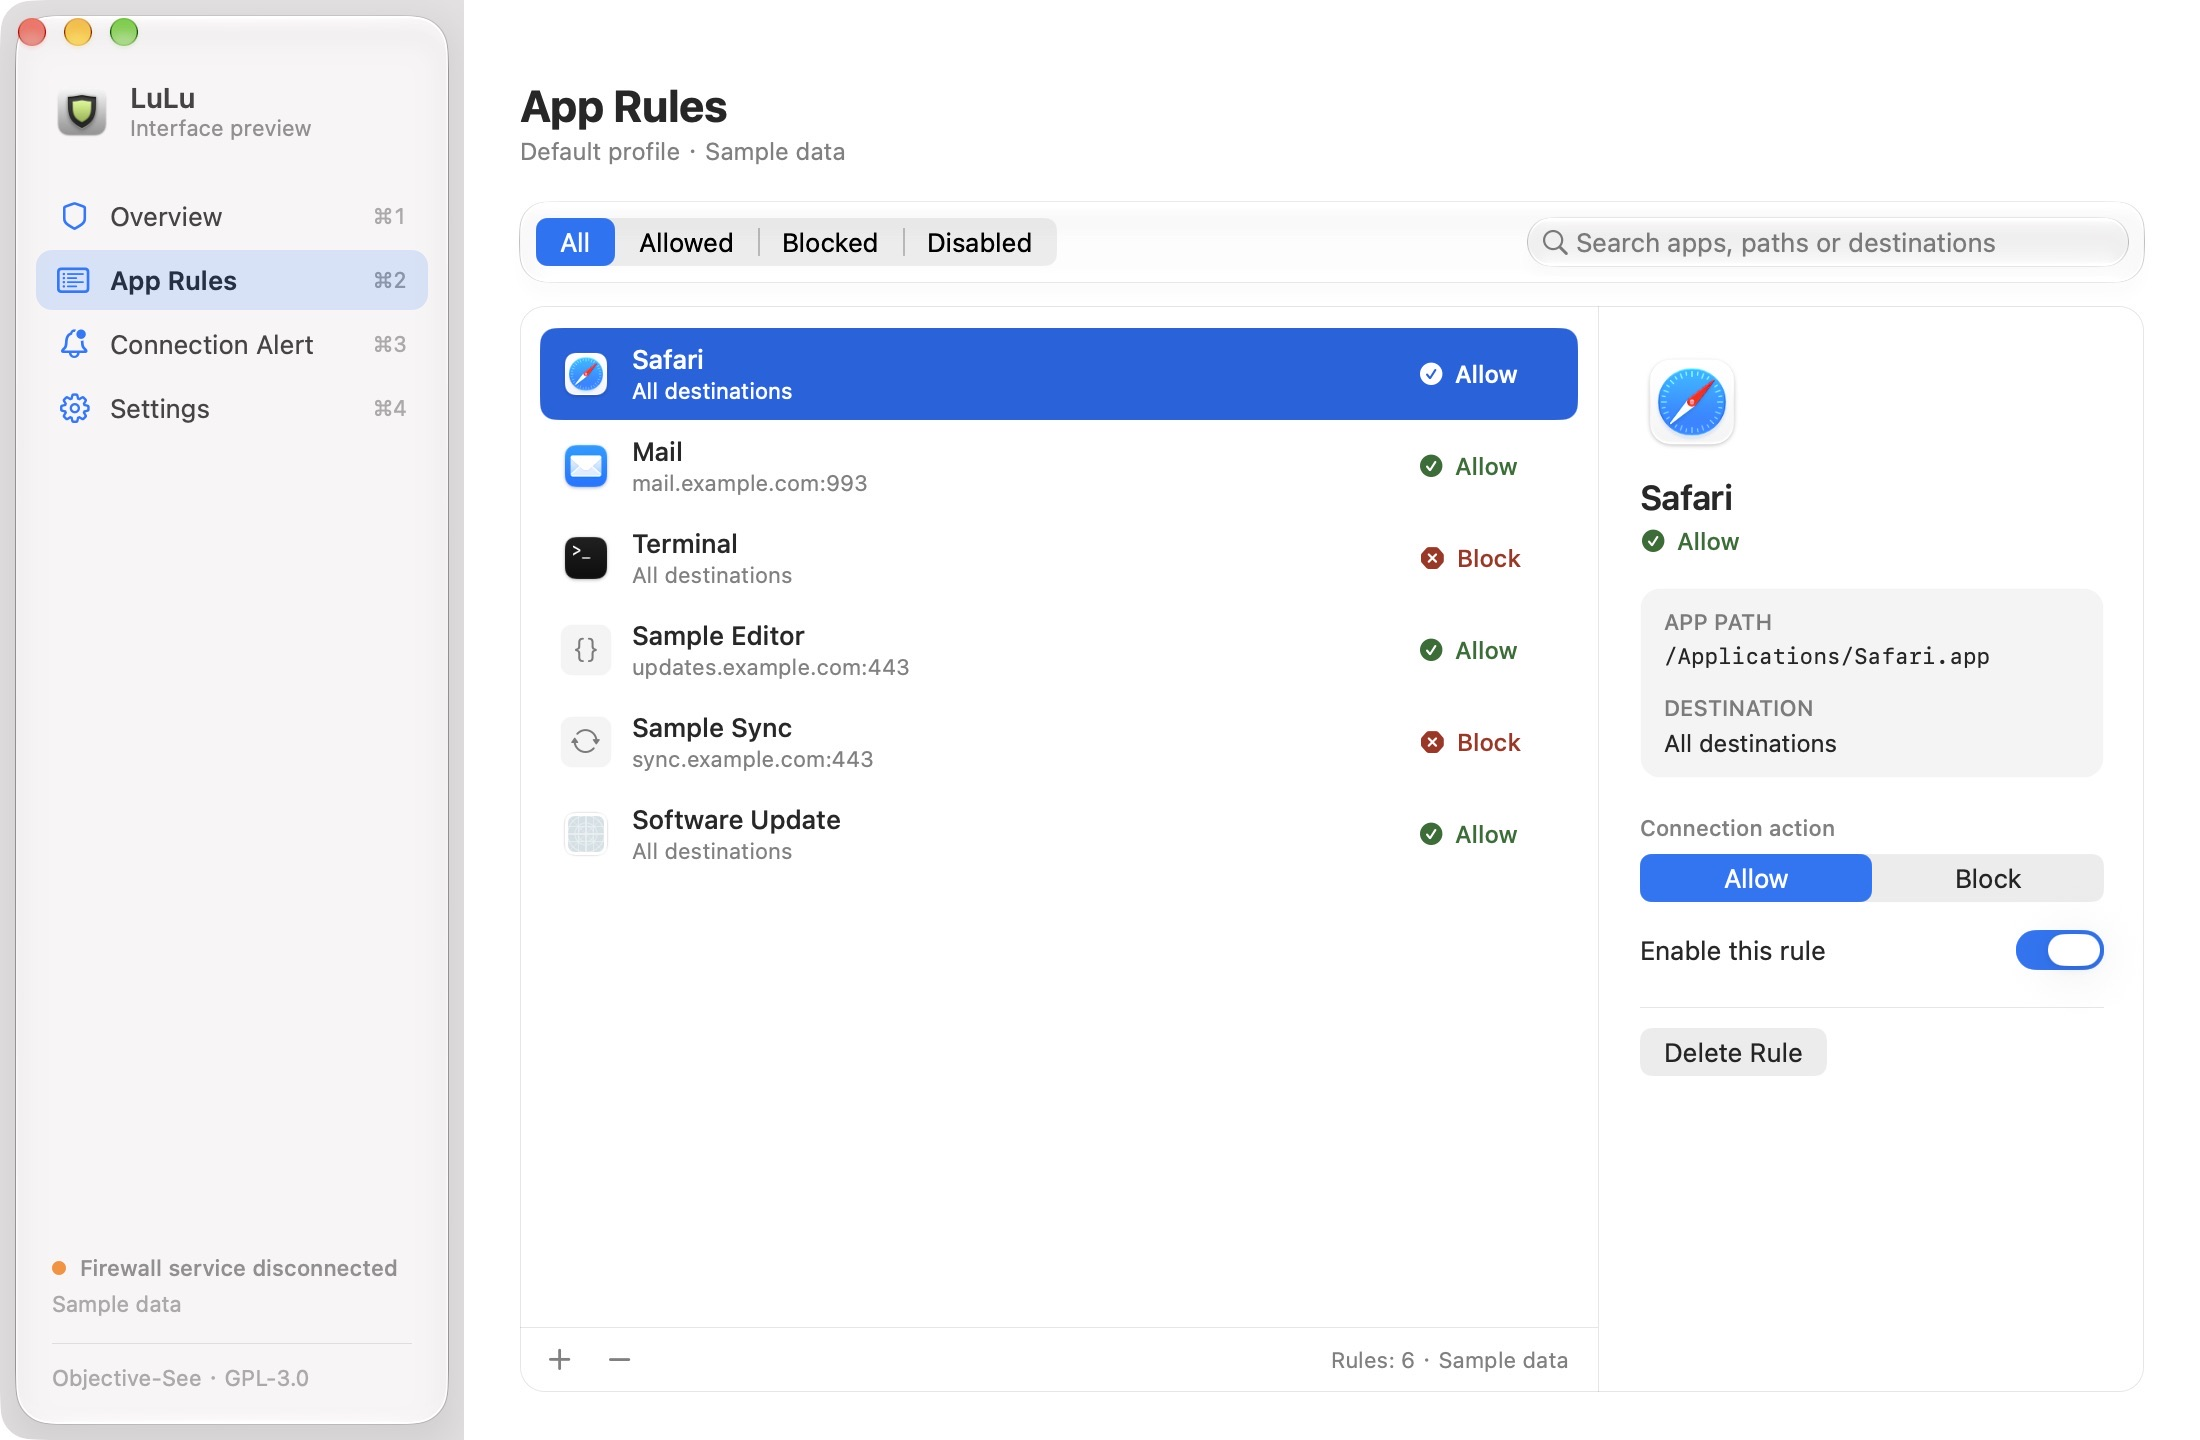
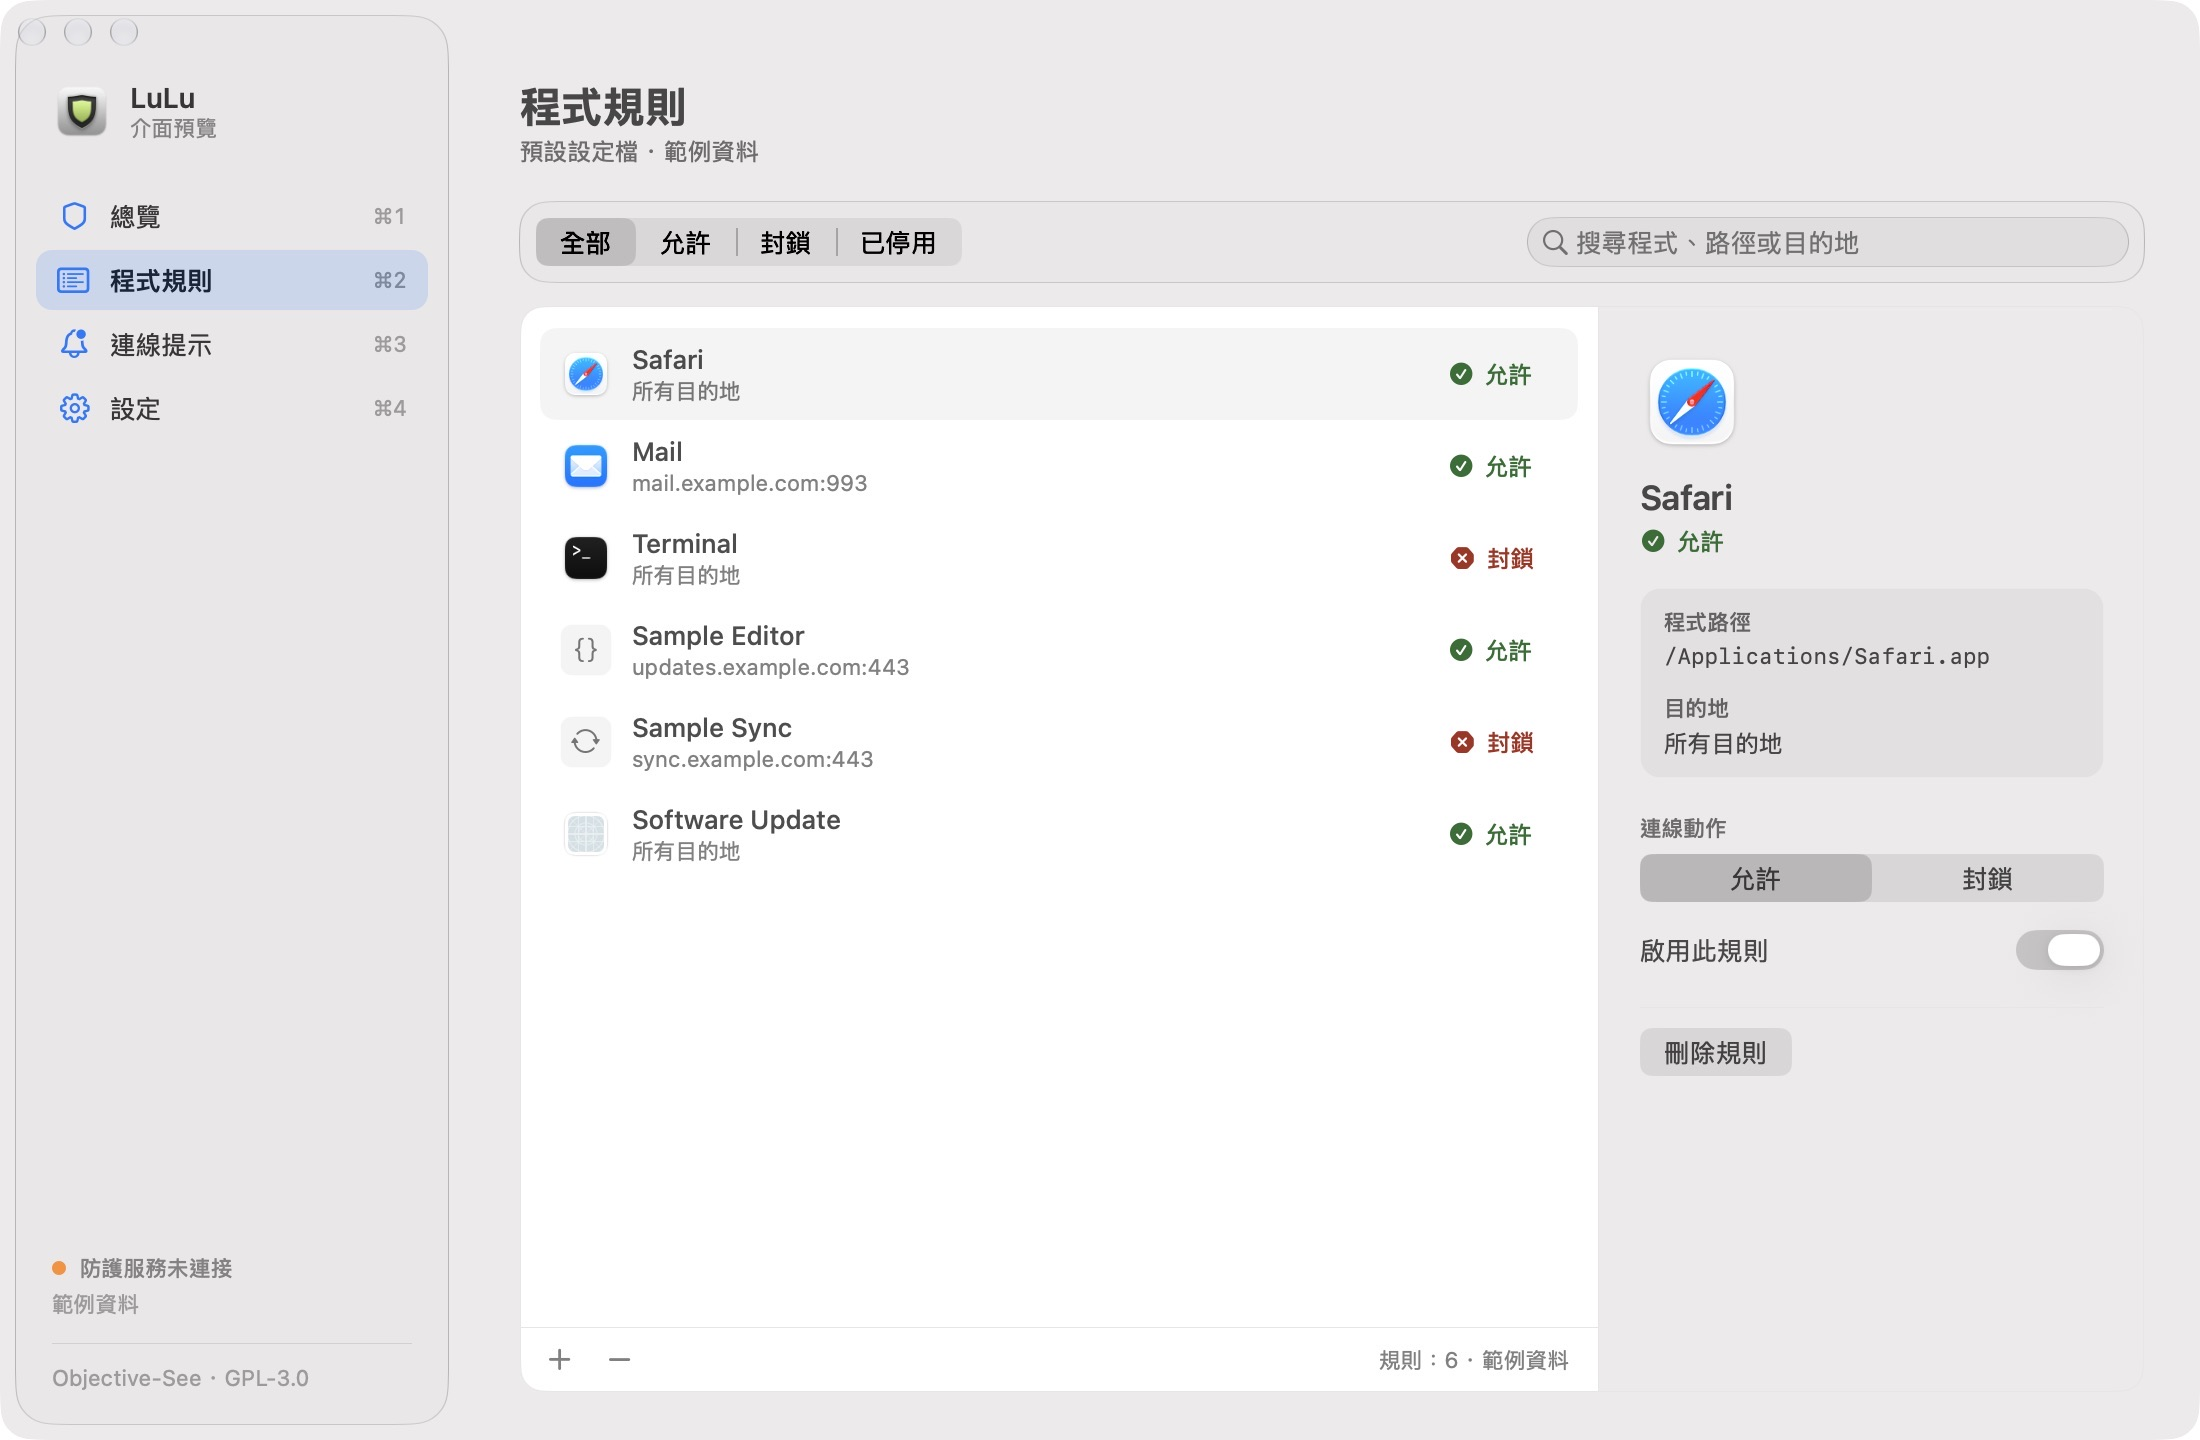
加入分組區塊與詳細資料的毛玻璃材質
需求描述：讓總覽、連線提示與設定頁的分組區塊呈現半透明毛玻璃。

實作思路：採用 AppKit 系統材質與圓角裁切，保留規則清單不透明；分開側欄與內容的背景取樣區域，讓文字參與材質顯示，並補上 QuartzCore 連結。

驗證：macOS 27.2 深淺色三頁與連線表單檢查通過；LTR／RTL 在 980×640、1100×720 無材質重疊，18 項模型及 4325 項多語檢查通過。

diff --git a/Preview/PreviewController.m b/Preview/PreviewController.m
@@ -274,13 +274,14 @@ static NSStackView* ActionTag(PreviewRule* rule, CGFloat size)
 
 #pragma mark - Views
 
+// Opaque reading surface behind the rule list.
 @interface PreviewCanvas : NSView
 @end
 @implementation PreviewCanvas
 -(void)drawRect:(NSRect)dirtyRect
 {
     [self.effectiveAppearance performAsCurrentDrawingAppearance:^{
-        [PreviewCanvasColor() setFill];
+        [PreviewSurfaceColor() setFill];
         NSRectFill(NSIntersectionRect(dirtyRect, self.bounds));
     }];
 }
@@ -414,7 +415,8 @@ static NSStackView* ActionTag(PreviewRule* rule, CGFloat size)
     backdrop.material = NSVisualEffectMaterialSidebar;
     backdrop.blendingMode = NSVisualEffectBlendingModeBehindWindow;
     backdrop.state = NSVisualEffectStateFollowsWindowActiveState;
-    Fill(backdrop, root, 0);
+    backdrop.translatesAutoresizingMaskIntoConstraints = NO;
+    [root addSubview:backdrop];
 
     NSTextField* productName = Line(@"LuLu", 14, NSFontWeightSemibold);
     NSTextField* productNote = Line(PreviewText(@"Interface preview"), 11, NSFontWeightRegular);
@@ -468,9 +470,11 @@ static NSStackView* ActionTag(PreviewRule* rule, CGFloat size)
 
     NSView* sidebar = PreviewGlass(sidebarContent, 0, 18);
     [root addSubview:sidebar];
-    self.pageView = [[PreviewCanvas alloc] init];
-    self.pageView.translatesAutoresizingMaskIntoConstraints = NO;
-    [root addSubview:self.pageView];
+    // Separate behind-window regions keep the sidebar material from overriding the content material.
+    NSVisualEffectView* contentMaterial = PreviewMaterial(NSVisualEffectMaterialUnderWindowBackground, NSVisualEffectBlendingModeBehindWindow);
+    [root addSubview:contentMaterial];
+    self.pageView = [[NSView alloc] init];
+    Fill(self.pageView, contentMaterial, 0);
 
     // Icon, gaps, row and sidebar insets, and the shortcut column.
     CGFloat shortcutWidth = TextWidth(@"⌘4", [NSFont monospacedDigitSystemFontOfSize:11 weight:NSFontWeightRegular]);
@@ -480,10 +484,14 @@ static NSStackView* ActionTag(PreviewRule* rule, CGFloat size)
         [sidebar.topAnchor constraintEqualToAnchor:root.topAnchor constant:PreviewSidebarInset],
         [sidebar.bottomAnchor constraintEqualToAnchor:root.bottomAnchor constant:-PreviewSidebarInset],
         [sidebar.widthAnchor constraintEqualToConstant:sidebarWidth],
-        [Leading(self.pageView) constraintEqualToAnchor:Trailing(sidebar) constant:Edge(PreviewSidebarInset)],
-        [Trailing(self.pageView) constraintEqualToAnchor:Trailing(root)],
-        [self.pageView.topAnchor constraintEqualToAnchor:root.topAnchor],
-        [self.pageView.bottomAnchor constraintEqualToAnchor:root.bottomAnchor]
+        [Leading(contentMaterial) constraintEqualToAnchor:Trailing(sidebar) constant:Edge(PreviewSidebarInset)],
+        [Trailing(contentMaterial) constraintEqualToAnchor:Trailing(root)],
+        [contentMaterial.topAnchor constraintEqualToAnchor:root.topAnchor],
+        [contentMaterial.bottomAnchor constraintEqualToAnchor:root.bottomAnchor],
+        [Leading(backdrop) constraintEqualToAnchor:Leading(root)],
+        [Trailing(backdrop) constraintEqualToAnchor:Leading(self.pageView)],
+        [backdrop.topAnchor constraintEqualToAnchor:root.topAnchor],
+        [backdrop.bottomAnchor constraintEqualToAnchor:root.bottomAnchor]
     ]];
 }
 
@@ -562,7 +570,7 @@ static NSStackView* ActionTag(PreviewRule* rule, CGFloat size)
     NSStackView* serviceText = Stack(@[Label(PreviewText(@"Firewall service disconnected"), 15, NSFontWeightSemibold),
         Secondary(PreviewText(@"This preview does not monitor or block network connections."))], NSUserInterfaceLayoutOrientationVertical, 3);
     NSStackView* service = Stack(@[LuLuIcon(44), serviceText], NSUserInterfaceLayoutOrientationHorizontal, 14);
-    AddWide(page, PreviewSurface(service, 18));
+    AddWide(page, PreviewFrostedSurface(service, 18));
 
     NSUInteger allowed = [[self.model rulesMatching:@"" filter:1] count];
     NSUInteger blocked = [[self.model rulesMatching:@"" filter:2] count];
@@ -600,7 +608,7 @@ static NSStackView* ActionTag(PreviewRule* rule, CGFloat size)
         row.edgeInsets = NSEdgeInsetsMake(8, 0, 8, 0);
         AddWide(list, row);
     }
-    AddWide(page, PreviewSurface(list, 0));
+    AddWide(page, PreviewFrostedSurface(list, 0));
 
     NSStackView* footer = Stack(@[Caption(PreviewText(@"Changes last for this preview session.")), Spacer(),
         Button(PreviewText(@"View Connection Alert"), self, @selector(openConnections:))], NSUserInterfaceLayoutOrientationHorizontal, 12);
@@ -693,14 +701,13 @@ static NSStackView* ActionTag(PreviewRule* rule, CGFloat size)
     NSStackView* bar = Stack(@[add, self.removeButton, Spacer(), self.countLabel], NSUserInterfaceLayoutOrientationHorizontal, 2);
     [bar setCustomSpacing:12 afterView:self.removeButton];
 
-    NSView* listPane = [[NSView alloc] init];
+    NSView* listPane = [[PreviewCanvas alloc] init];
     listPane.translatesAutoresizingMaskIntoConstraints = NO;
     NSView* barDivider = PreviewDivider();
     for(NSView* view in @[listScroll, empty, barDivider, bar]) [listPane addSubview:view];
 
     // Inspector
-    NSView* inspectorPane = [[NSView alloc] init];
-    inspectorPane.translatesAutoresizingMaskIntoConstraints = NO;
+    NSView* inspectorPane = PreviewMaterial(NSVisualEffectMaterialSidebar, NSVisualEffectBlendingModeWithinWindow);
     self.inspector = Stack(@[], NSUserInterfaceLayoutOrientationVertical, 10);
     [inspectorPane addSubview:self.inspector];
 
@@ -708,7 +715,7 @@ static NSStackView* ActionTag(PreviewRule* rule, CGFloat size)
     NSView* body = [[NSView alloc] init];
     body.translatesAutoresizingMaskIntoConstraints = NO;
     for(NSView* view in @[listPane, columnDivider, inspectorPane]) [body addSubview:view];
-    NSView* surface = PreviewSurfaceWithRadius(body, 0, 12);
+    NSView* surface = PreviewPanel(body, 12);
 
     for(NSView* view in @[header, controlBar, surface]) [page addSubview:view];
 
@@ -954,6 +961,7 @@ static NSStackView* ActionTag(PreviewRule* rule, CGFloat size)
 {
     self.sheet = [[NSPanel alloc] initWithContentRect:NSMakeRect(0, 0, width, 420) styleMask:NSWindowStyleMaskTitled backing:NSBackingStoreBuffered defer:NO];
     self.sheet.title = @"LuLu Interface Preview";
+    Fill(PreviewMaterial(NSVisualEffectMaterialSheet, NSVisualEffectBlendingModeBehindWindow), self.sheet.contentView, 0);
     NSTextField* mode = Caption(PreviewText(@"Preview mode · Sample data"));
     NSStackView* text = Stack(@[mode, Label(title, 15, NSFontWeightBold)], NSUserInterfaceLayoutOrientationVertical, 2);
     if(message) { NSTextField* body = Secondary(message); [text addArrangedSubview:body]; [text setCustomSpacing:4 afterView:text.arrangedSubviews[1]]; }
@@ -1107,7 +1115,7 @@ static NSStackView* ActionTag(PreviewRule* rule, CGFloat size)
     NSStackView* card = Stack(@[], NSUserInterfaceLayoutOrientationVertical, 16);
     AddWide(card, top);
     AddWide(card, PreviewWell(destination, 0));
-    AddWide(page, PreviewSurface(card, 18));
+    AddWide(page, PreviewFrostedSurface(card, 18));
 
     BOOL decided = self.lastDecision != nil;
     BOOL allowed = [self.lastDecision[@"allowed"] boolValue];
@@ -1250,7 +1258,7 @@ static NSStackView* ActionTag(PreviewRule* rule, CGFloat size)
         if(list.arrangedSubviews.count) AddWide(list, PreviewDivider());
         AddWide(list, row);
     }
-    NSView* surface = PreviewSurface(list, 0);
+    NSView* surface = PreviewFrostedSurface(list, 0);
     if(!title) return surface;
     NSStackView* group = Stack(@[], NSUserInterfaceLayoutOrientationVertical, 8);
     NSStackView* heading = Stack(@[SectionTitle(title)], NSUserInterfaceLayoutOrientationHorizontal, 0);

diff --git a/Preview/PreviewStyle.m b/Preview/PreviewStyle.m
@@ -1,5 +1,6 @@
 // SPDX-License-Identifier: GPL-3.0-only
 #import "PreviewStyle.h"
+#import <QuartzCore/QuartzCore.h>
 
 static void PreviewDrawWithAppearance(NSView* view, void (^drawing)(void))
 {
@@ -155,6 +156,75 @@ NSView* PreviewGlass(NSView* content, CGFloat padding, CGFloat cornerRadius)
     }
     result.translatesAutoresizingMaskIntoConstraints = NO;
     return result;
+}
+
+NSVisualEffectView* PreviewMaterial(NSVisualEffectMaterial material, NSVisualEffectBlendingMode blending)
+{
+    NSVisualEffectView* view = [[NSVisualEffectView alloc] init];
+    view.material = material;
+    view.blendingMode = blending;
+    view.state = NSVisualEffectStateFollowsWindowActiveState;
+    view.translatesAutoresizingMaskIntoConstraints = NO;
+    return view;
+}
+
+@interface PreviewPanelView : NSView
+@property(nonatomic) CGFloat radius;
+@end
+
+@implementation PreviewPanelView
+
+-(instancetype)initWithFrame:(NSRect)frame
+{
+    self = [super initWithFrame:frame];
+    if(self) self.wantsLayer = YES;
+    return self;
+}
+
+-(BOOL)wantsUpdateLayer
+{
+    return YES;
+}
+
+-(void)updateLayer
+{
+    self.layer.cornerRadius = self.radius;
+    self.layer.cornerCurve = kCACornerCurveContinuous;
+    self.layer.masksToBounds = YES;
+    self.layer.borderWidth = PreviewHairline(self);
+    [self.effectiveAppearance performAsCurrentDrawingAppearance:^{
+        self.layer.borderColor = NSColor.separatorColor.CGColor;
+    }];
+}
+
+-(void)viewDidChangeEffectiveAppearance
+{
+    [super viewDidChangeEffectiveAppearance];
+    self.needsDisplay = YES;
+}
+
+-(void)viewDidChangeBackingProperties
+{
+    [super viewDidChangeBackingProperties];
+    self.needsDisplay = YES;
+}
+
+@end
+
+NSView* PreviewPanel(NSView* content, CGFloat cornerRadius)
+{
+    PreviewPanelView* panel = [[PreviewPanelView alloc] init];
+    panel.translatesAutoresizingMaskIntoConstraints = NO;
+    panel.radius = cornerRadius;
+    PreviewPinContent(content, panel, 0);
+    return panel;
+}
+
+NSView* PreviewFrostedSurface(NSView* content, CGFloat padding)
+{
+    NSVisualEffectView* material = PreviewMaterial(NSVisualEffectMaterialPopover, NSVisualEffectBlendingModeWithinWindow);
+    PreviewPinContent(content, material, padding);
+    return PreviewPanel(material, 12);
 }
 
 #pragma mark - Symbol tile

diff --git a/Preview/PreviewStyle.h b/Preview/PreviewStyle.h
@@ -11,6 +11,12 @@ FOUNDATION_EXPORT NSView* PreviewSurface(NSView* content, CGFloat padding);
 FOUNDATION_EXPORT NSView* PreviewSurfaceWithRadius(NSView* content, CGFloat padding, CGFloat cornerRadius);
 // Recessed fill used for read-only detail blocks inside a surface or sheet.
 FOUNDATION_EXPORT NSView* PreviewWell(NSView* content, CGFloat padding);
+// Frosted system material. The system makes it opaque when Reduce Transparency is on.
+FOUNDATION_EXPORT NSVisualEffectView* PreviewMaterial(NSVisualEffectMaterial material, NSVisualEffectBlendingMode blending);
+// Container that clips its children to rounded corners and draws a hairline border above them.
+FOUNDATION_EXPORT NSView* PreviewPanel(NSView* content, CGFloat cornerRadius);
+// Rounded, hairline-bordered card on a frosted material, for grouped content on the frosted page background.
+FOUNDATION_EXPORT NSView* PreviewFrostedSurface(NSView* content, CGFloat padding);
 // Liquid Glass on macOS 26, a material on older systems, opaque with Reduce Transparency.
 FOUNDATION_EXPORT NSView* PreviewGlass(NSView* content, CGFloat padding, CGFloat cornerRadius);
 // Rounded tile with an SF Symbol, used where no real app icon exists.

diff --git a/Preview/README.md b/Preview/README.md
@@ -40,7 +40,7 @@ The production UI changes are in the existing Rules, Preferences and Alert contr
 
 ## Design
 
-The inset sidebar and search controls use native `NSGlassEffectView` on macOS 26 or later, with `NSVisualEffectView` on older systems and an opaque surface when Reduce Transparency is enabled at creation. The rules page fills the window with a unified list and inspector, compact app rows, inline action controls and an add/delete bar. Overview and connection details use a readable content width; settings use grouped rows. Content uses system colors and native app icons. Selected rule actions adopt the system selection text color.
+The inset sidebar and search controls use native `NSGlassEffectView` on macOS 26 or later, with `NSVisualEffectView` on older systems and an opaque surface when Reduce Transparency is enabled at creation. Overview, connection and settings groups use frosted system materials, as do the inspector and sheets; the dense rule list stays opaque. The rules page fills the window with a unified list and inspector, compact app rows, inline action controls and an add/delete bar. Overview and connection details use a readable content width; settings use grouped rows. Content uses system colors and native app icons. Selected rule actions adopt the system selection text color.
 
 The window uses 22 pt page titles, 13–15 pt primary labels and 11–12 pt supporting details. Allow and block actions have explicit text and symbols as well as color. Navigation and form controls mirror for right-to-left languages, while technical values retain left-to-right writing.
 
